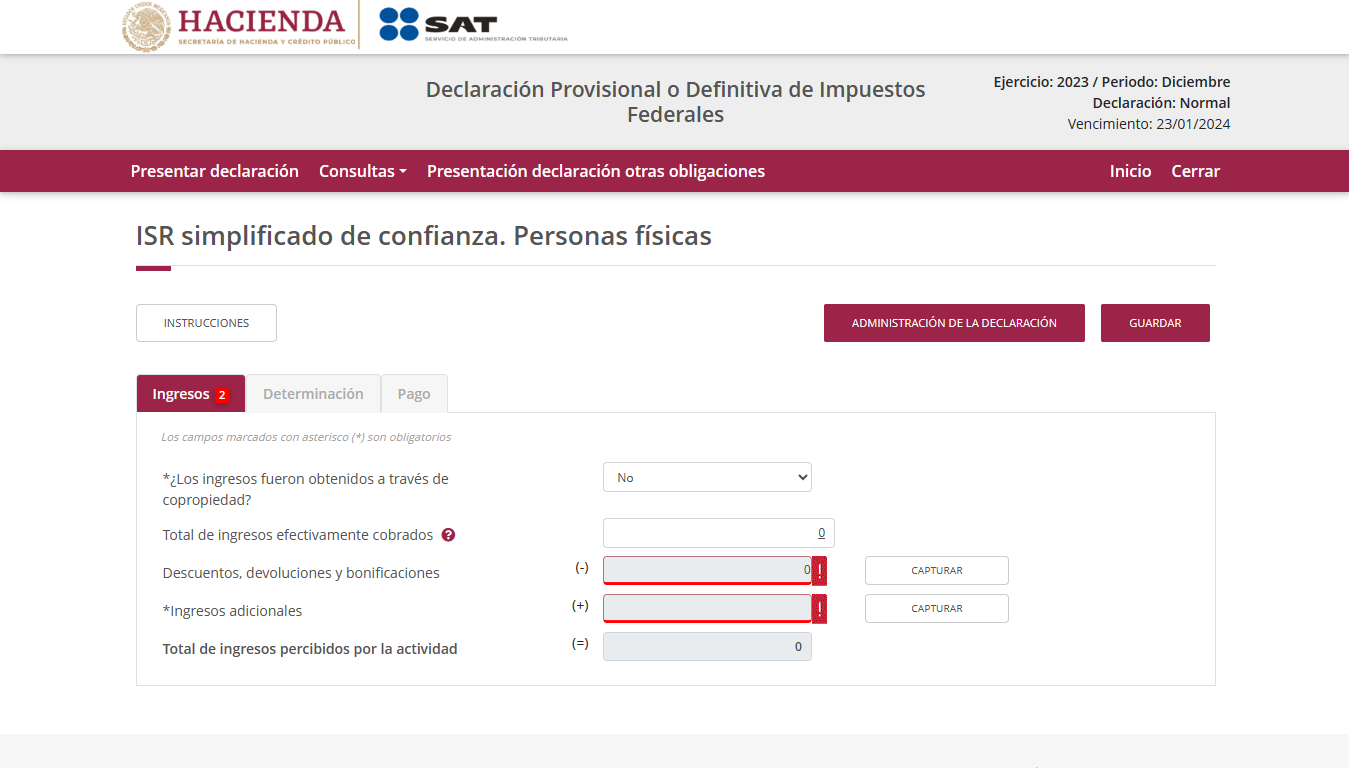
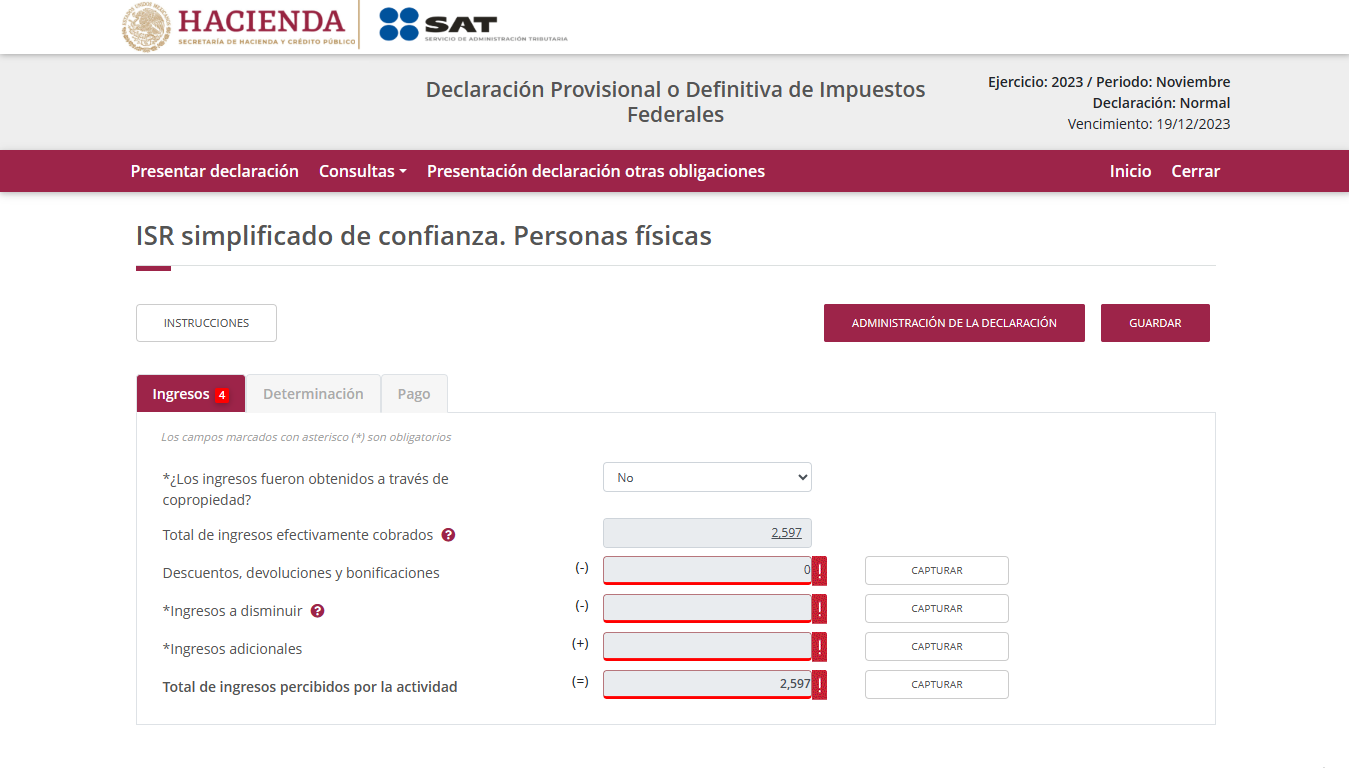
Ingresos disminuir y totales
Ingresos a disminuir y totales, actualización de capturas con datos.

diff --git a/SAT-Modular/static/js/declaracionesData.js b/SAT-Modular/static/js/declaracionesData.js
@@ -55,8 +55,8 @@ var inicio_declaraciones = `
         <input class="" type="button" onclick="ocultarinput('presentar_decla'), mostrarinput('periodicidad_decla'), imagen('img_declaracion', '/static/images/Declaraciones/presentar-declaracion.png'), actualizarTexto(9)" id="presentar_decla" value="Presentar declaración">
         <input class="" type="button" onclick="ocultarinput('periodicidad_decla'), mostrarinput('periodicidad_mensual'), imagen('img_declaracion', '/static/images/Declaraciones/presentar-declaracion-c1.png'), actualizarTexto(10)" id="periodicidad_decla" value="Periodicidad" style="display : none">
         <input class="" type="button" onclick="ocultarinput('periodicidad_mensual'), mostrarinput('periodo_decla'), imagen('img_declaracion', '/static/images/Declaraciones/presentar-declaracion-c2.png'), actualizarTexto(11)" id="periodicidad_mensual" value="Mensual" style="display : none">
-        <input class="" type="button" onclick="ocultarinput('periodo_decla'), mostrarinput('periodo_diciembre'), imagen('img_declaracion', '/static/images/Declaraciones/presentar-declaracion-c3.png')" id="periodo_decla" value="Periodo" style="display : none">
-        <input class="" type="button" onclick="ocultarinput('periodo_diciembre'), mostrarinput('tipo_declaracion'), imagen('img_declaracion', '/static/images/Declaraciones/presentar-declaracion-c4.png'), actualizarTexto(12)" id="periodo_diciembre" value="Diciembre" style="display : none">
+        <input class="" type="button" onclick="ocultarinput('periodo_decla'), mostrarinput('periodo_noviembre'), imagen('img_declaracion', '/static/images/Declaraciones/presentar-declaracion-c3.png')" id="periodo_decla" value="Periodo" style="display : none">
+        <input class="" type="button" onclick="ocultarinput('periodo_noviembre'), mostrarinput('tipo_declaracion'), imagen('img_declaracion', '/static/images/Declaraciones/presentar-declaracion-c4.png'), actualizarTexto(12)" id="periodo_noviembre" value="Noviembre" style="display : none">
         <input class="" type="button" onclick="ocultarinput('tipo_declaracion'), mostrarinput('tipo_normal'), imagen('img_declaracion', '/static/images/Declaraciones/presentar-declaracion-c5.png')" id="tipo_declaracion" value="Tipo declaración" style="display : none">
         <input class="" type="button" onclick="ocultarinput('tipo_normal'), mostrarinput('siguiente_decla'), imagen('img_declaracion', '/static/images/Declaraciones/presentar-declaracion-c6.png'), actualizarTexto(13)" id="tipo_normal" value="Normal" style="display : none">
         <input class="" type="button" onclick="siguiente(),actualizarTexto(14)" id="siguiente_decla" value="Siguiente" style="display : none">
@@ -102,14 +102,13 @@ var isr_pt2 = `
 <img class="" src="/static/images/Declaraciones/Declaraciones-isr-pt2-c1.png" alt="image" id="img_isr_simp_pt2">
     
     <div class="">
-        <input class="" type="button" onclick="ocultarinput('mostrar_ingresos'), mostrarinput('agregar_ingresos'),imagen('img_isr_simp_pt2', '/static/images/Declaraciones/Declaraciones-isr-pt2-c2.png'), actualizarTexto(23)" id="mostrar_ingresos" value="mostrar">
-        <input class="" type="button" onclick="ocultarinput('agregar_ingresos'), mostrarinput('seleccionar_ingresos'),imagen('img_isr_simp_pt2', '/static/images/Declaraciones/Declaraciones-isr-pt2-c3.png'), actualizarTexto(24)" id="agregar_ingresos" value="agregar" style="display : none">
-        <input class="" type="button" onclick="ocultarinput('seleccionar_ingresos'), mostrarinput('sin_ingreso_adicional'),imagen('img_isr_simp_pt2', '/static/images/Declaraciones/Declaraciones-isr-pt2-c4.png'), actualizarTexto(25)" id="seleccionar_ingresos" value="seleccionar" style="display : none">
-        <input class="" type="button" onclick="ocultarinput('sin_ingreso_adicional'), mostrarinput('importe_adicional'),imagen('img_isr_simp_pt2', '/static/images/Declaraciones/Declaraciones-isr-pt2-c5.png'), actualizarTexto(26)" id="sin_ingreso_adicional" value="sin ingreso adicional" style="display : none">
-        <input class="" type="text" onclick="actualizarTexto(27)" onchange="Validar_numero('importe_adicional','guardar_sin_ingreso_adicional','img_isr_simp_pt2','/static/images/Declaraciones/Declaraciones-isr-pt2-c6.png')" id="importe_adicional" style="display : none">
-        <input class="" type="button" onclick="ocultarinput('guardar_sin_ingreso_adicional'),mostrarinput('cerrar_ingreso'),imagen('img_isr_simp_pt2', '/static/images/Declaraciones/Declaraciones-isr-pt2-c7.png'), actualizarTexto(28)" id="guardar_sin_ingreso_adicional" value="Guardar" style="display : none">
-        <input class="" type="button" onclick="siguiente(),actualizarTexto()" id="cerrar_ingreso" value="cerrar" style="display : none"  > 
-
+        <input class="" type="button" onclick="ocultarinput('mostrar_ingresos_disminuir'), mostrarinput('agregar_ingresos_disminuir'),imagen('img_isr_simp_pt2', '/static/images/Declaraciones/Declaraciones-isr-pt2-c2.png'), actualizarTexto(23)" id="mostrar_ingresos_disminuir" value="mostrar">
+        <input class="" type="button" onclick="ocultarinput('agregar_ingresos_disminuir'), mostrarinput('seleccionar_ingresos_disminuir'),imagen('img_isr_simp_pt2', '/static/images/Declaraciones/Declaraciones-isr-pt2-c3.png'), actualizarTexto(24)" id="agregar_ingresos_disminuir" value="agregar" style="display : none">
+        <input class="" type="button" onclick="ocultarinput('seleccionar_ingresos_disminuir'), mostrarinput('sin_ingreso_disminuir'),imagen('img_isr_simp_pt2', '/static/images/Declaraciones/Declaraciones-isr-pt2-c4.png'), actualizarTexto(25)" id="seleccionar_ingresos_disminuir" value="seleccionar" style="display : none">
+        <input class="" type="button" onclick="ocultarinput('sin_ingreso_disminuir'), mostrarinput('importe_disminuir'),imagen('img_isr_simp_pt2', '/static/images/Declaraciones/Declaraciones-isr-pt2-c5.png'), actualizarTexto(26)" id="sin_ingreso_disminuir" value="sin ingreso a disminuir" style="display : none">
+        <input class="" type="text" onclick="actualizarTexto(27)" onchange="Validar_numero('importe_disminuir','guardar_sin_ingreso_disminuir','img_isr_simp_pt2','/static/images/Declaraciones/Declaraciones-isr-pt2-c6.png')" id="importe_disminuir" style="display : none">
+        <input class="" type="button" onclick="ocultarinput('guardar_sin_ingreso_disminuir'),mostrarinput('cerrar_ingreso_disminuir'),imagen('img_isr_simp_pt2', '/static/images/Declaraciones/Declaraciones-isr-pt2-c7.png'), actualizarTexto(28)" id="guardar_sin_ingreso_disminuir" value="Guardar" style="display : none">
+        <input class="" type="button" onclick="siguiente(),actualizarTexto(29)" id="cerrar_ingreso_disminuir" value="cerrar" style="display : none"  > 
     </div>
 </div>
 <input class="atras" type="button" onclick="anterior(), actualizarTexto(15)">
@@ -118,13 +117,37 @@ var isr_pt2 = `
 // Posición 8
 var isr_pt3 = `
 <div class="tuto-window">
-<img class="" src="/static/images/Declaraciones/Declaraciones-isr-pt3-c1.png" alt="image" id="img_isr_simp_pt2">
+    <img class="" src="/static/images/Declaraciones/Declaraciones-isr-pt3-c1.png" alt="image" id="img_isr_simp_pt3">
     
     <div class="">
-    
+        <input class="" type="button" onclick="ocultarinput('mostrar_ingresos_adicionales'), mostrarinput('agregar_ingresos_adicionales'),imagen('img_isr_simp_pt3', '/static/images/Declaraciones/Declaraciones-isr-pt3-c2.png'), actualizarTexto(30)" id="mostrar_ingresos_adicionales" value="mostrar">
+        <input class="" type="button" onclick="ocultarinput('agregar_ingresos_adicionales'), mostrarinput('seleccionar_ingresos_adicionales'),imagen('img_isr_simp_pt3', '/static/images/Declaraciones/Declaraciones-isr-pt3-c3.png'), actualizarTexto(24)" id="agregar_ingresos_adicionales" value="agregar" style="display : none">
+        <input class="" type="button" onclick="ocultarinput('seleccionar_ingresos_adicionales'), mostrarinput('sin_ingreso_adicional'),imagen('img_isr_simp_pt3', '/static/images/Declaraciones/Declaraciones-isr-pt3-c4.png'), actualizarTexto(31)" id="seleccionar_ingresos_adicionales" value="seleccionar" style="display : none">
+        <input class="" type="button" onclick="ocultarinput('sin_ingreso_adicional'), mostrarinput('importe_adicional'),imagen('img_isr_simp_pt3', '/static/images/Declaraciones/Declaraciones-isr-pt3-c5.png'), actualizarTexto(26)" id="sin_ingreso_adicional" value="sin ingreso adicional" style="display : none">
+        <input class="" type="text" onclick="actualizarTexto(32)" onchange="Validar_numero('importe_adicional','guardar_sin_ingreso_adicional','img_isr_simp_pt3','/static/images/Declaraciones/Declaraciones-isr-pt3-c6.png')" id="importe_adicional" style="display : none">
+        <input class="" type="button" onclick="ocultarinput('guardar_sin_ingreso_adicional'),mostrarinput('cerrar_ingreso_adicional'),imagen('img_isr_simp_pt3', '/static/images/Declaraciones/Declaraciones-isr-pt3-c7.png'), actualizarTexto(28)" id="guardar_sin_ingreso_adicional" value="Guardar" style="display : none">
+        <input class="" type="button" onclick="siguiente(),actualizarTexto(33)" id="cerrar_ingreso_adicional" value="cerrar" style="display : none"  >  
     </div>
 </div>
 <input class="atras" type="button" onclick="anterior(), actualizarTexto(22)">
+`;
+
+// Posición 9
+var isr_pt4 = `
+<div class="tuto-window">
+    <img class="" src="/static/images/Declaraciones/Declaraciones-isr-pt4-c1.png" alt="image" id="img_isr_simp_pt4">
+    
+    <div class="">
+        <input class="" type="button" onclick="ocultarinput('mostrar_ingresos_totales'), mostrarinput('agregar_ingresos_totales'),imagen('img_isr_simp_pt4', '/static/images/Declaraciones/Declaraciones-isr-pt4-c2.png'), actualizarTexto(34)" id="mostrar_ingresos_totales" value="mostrar">
+        <input class="" type="button" onclick="ocultarinput('agregar_ingresos_totales'), mostrarinput('seleccionar_ingresos_totales'),imagen('img_isr_simp_pt4', '/static/images/Declaraciones/Declaraciones-isr-pt4-c3.png'), actualizarTexto(24)" id="agregar_ingresos_totales" value="agregar" style="display : none">
+        <input class="" type="button" onclick="ocultarinput('seleccionar_ingresos_totales'), mostrarinput('actividad_empresarial'),imagen('img_isr_simp_pt4', '/static/images/Declaraciones/Declaraciones-isr-pt4-c4.png'), actualizarTexto(35)" id="seleccionar_ingresos_totales" value="seleccionar" style="display : none">
+        <input class="" type="button" onclick="ocultarinput('actividad_empresarial'), mostrarinput('total_ingresos'),imagen('img_isr_simp_pt4', '/static/images/Declaraciones/Declaraciones-isr-pt4-c5.png'), actualizarTexto(26)" id="actividad_empresarial" value="Actividad Empresarial" style="display : none">
+        <input class="" type="text" onclick="actualizarTexto(36)" onchange="Validar_numero('total_ingresos','guardar_ingreso_total','img_isr_simp_pt4','/static/images/Declaraciones/Declaraciones-isr-pt4-c6.png')" id="total_ingresos" style="display : none">
+        <input class="" type="button" onclick="ocultarinput('guardar_ingreso_total'),mostrarinput('cerrar_ingreso_total'),imagen('img_isr_simp_pt4', '/static/images/Declaraciones/Declaraciones-isr-pt4-c7.png'), actualizarTexto(28)" id="guardar_ingreso_total" value="Guardar" style="display : none">
+        <input class="" type="button" onclick="siguiente(), actualizarTexto()" id="cerrar_ingreso_total" value="cerrar" style="display : none"  >   
+    </div>
+</div>
+<input class="atras" type="button" onclick="anterior(), actualizarTexto(29)">
 `;
 
 // ----------------------------------------------- Tutorial text -----------------------------------------------
@@ -184,7 +207,7 @@ En el apartado de periodicidad selecciona la opción de "Mensual" que es la que 
 
 // Posición 11
 var configuracion_decla_periodo = `
-Ahora el siguiente paso es seleccionar el Periodo, haz click en el y en el mes de Diciembre.
+Ahora el siguiente paso es seleccionar el Periodo, haz click en el y selecciona el mes de Noviembre que corresponderá a este tutorial.
 `;
 
 // Posición 12
@@ -219,12 +242,12 @@ Ahora veremos el apartado de ingresos efectivamente cobrados.
 
 // Posición 18
 var facturas_vigentes = `
-En este apartado se te mostraran las facturas vigentes al mes de la factura, en este caso en diciembre tenemos 0 facturas vigentes, de igual forma nuestro total es 0. Presiona cerrar para regresar a la parte anterior.
+En este apartado se te mostraran las facturas vigentes al mes de la factura, en este caso en el mes seleccionado tenemos 2,597 en facturas vigentes, de igual forma nuestro total es de 2,597. Presiona cerrar para regresar a la parte anterior.
 `;
 
 // Posición 19
 var desc_dev_bonif= `
-Bien, ahora iremos a la parte de Descuentos, devoluciones y bonificaciones, le daremos click para continuar.
+Bien, ahora iremos a la parte de Descuentos, devoluciones y bonificaciones, le daremos click para CAPTURAR.
 `;
 
 // Posición 20
@@ -238,46 +261,89 @@ Aqui pondremos 0 para indicar que no tenemos ningun descuento ni bonificación.
 `;
 
 // Posición 22
-var ingreso_adicional_1= `
-Ahora vamos a la parte de ingresos adicionales, este es el penultimo apartado antes de terminar la seccion de ingresos.
+var disminuir_ingresos = `
+El siguiente paso es configurar los ingresos a disminuir, selecciona la opción de CAPTURAR.
 `;
 
-// Posición 23
-var ingreso_adicional_2= `
-Aquí indicaremos cualquier tipo de actividad que no se haya registrado su CFDI correspondiente o no tenga un prellenado. Daremos click en agregar.
+// Posicón 23
+var agregar_disminuir_ingreso = `
+Se nos marca una advertencia debido a que por lo menos debe de haber un registro, por lo que para agregarlo haz click en el botón.
 `;
 
 // Posición 24
-var ingreso_adicional_3= `
+var seleccionar_concepto= `
 En el apartado de Concepto seleccionaremos uno, presiona el apartado de seleccionar.
 `;
 
 // Posición 25
-var ingreso_adicional_4= `
-Para este ejemplo no contaremos con ingresos adicionales por lo que le daremos en el apartado de " Sin ingresos adicionales ".
+var concepto_disminuir = `
+El concepto que vas a seleccionar es el de "Sin ingresos a disminuir" ya que no reportaremos algunos, pero en caso de ser necesario deberas seleccionar la opción correspondiente.
 `;
 
 // Posición 26
-var ingreso_adicional_5= `
+var seleccionar_importe = `
 Nos iremos a la seccion donde dice importe.
 `;
 
 // Posición 27
-var ingreso_adicional_6= `
+var importe_disminuir = `
+Como anteriormente seleccionaste la opción de sin ingresos a disminuir, el importe debe de ser 0.
+`;
+
+// Posición 28
+var cerrar_apartado = `
+Con los datos ya ingresados ahora cerremos este apartado.
+`;
+
+// Posición 29
+var ingreso_adicional_1= `
+Ahora vamos a la parte de ingresos adicionales, este es el penultimo apartado antes de terminar la seccion de ingresos.
+`;
+
+// Posición 30
+var ingreso_adicional_2= `
+Aquí indicaremos cualquier tipo de actividad que no se haya registrado su CFDI correspondiente o no tenga un prellenado. Daremos click en agregar.
+`;
+
+// Posición 31
+var ingreso_adicional_3= `
+Para este ejemplo no contaremos con ingresos adicionales por lo que le daremos en el apartado de " Sin ingresos adicionales ".
+`;
+
+// Posición 32
+var ingreso_adicional_4= `
 Pondremos un 0 dando a entender que claramente no tuvimos ingresos adicionales y seguiremos con los siguientes pasos.
 `;
 
-// Posición 27
-var ingreso_adicional_7= `
-Ahora cerremos este apartado.
+// Posición 33
+var ingresos_totales = `
+La última sección del apartado de ingresos es la del total de ingresos efectivamente cobrados, por lo que debes de hacer click en CAPTURAR
+`;
+
+// Posición 34
+var ingresos_totales_2 = `
+Al igual que en las secciones pasadas puedes ver la advertencia en rojo ya que no hay ningún monto agregado, selecciona la opción de AGREGAR.
+`;
+
+// Posición 35
+var ingresos_totales_3 = `
+Los conceptos siempre seran dependiendo la declaración, para este ejemplo utilizaremos el de "Actividad empresarial".
+`;
+
+// Posición 36
+var ingresos_totales_4 = `
+El importe será el total de los ingresos por lo que debes de ingresar: 2597.
 `;
 
 // HTML de tutorial
 var HTML_text_declaraciones = [SAT_inicio, declaraciones, presenta_declaracion, login_declaraciones, 
-                                inicio_declaraciones,declaracion_isr,isr_pt1,isr_pt2,isr_pt3]
+                                inicio_declaraciones,declaracion_isr,
+                                isr_pt1,isr_pt2,isr_pt3, isr_pt4]
 
 // Texto de guía tutorial
 var tutorial_text_declaraciones = [inicio, RSC, opcion_RSC, iniciar_declaracion, login_tutorial, RFC_login, contrasena_login, captcha_login,
                                 presentar_declaracion, configuracion_decla, configuracion_decla_periodicidad, configuracion_decla_periodo, configuracion_decla_tipo, configuracion_decla_final,decla_isr_inicio,
-                                copropiedad,seleccion_input_copropiedad,ingresos_efectivamente_cobrados_mostrar,facturas_vigentes,desc_dev_bonif,desc_dev_bonif_2,txt_desc_dev_bonif,ingreso_adicional_1,
-                                ingreso_adicional_2,ingreso_adicional_3,ingreso_adicional_4,ingreso_adicional_5,ingreso_adicional_6,ingreso_adicional_7]
+                                copropiedad,seleccion_input_copropiedad,ingresos_efectivamente_cobrados_mostrar,facturas_vigentes,desc_dev_bonif,desc_dev_bonif_2,txt_desc_dev_bonif,
+                                disminuir_ingresos, agregar_disminuir_ingreso, seleccionar_concepto, concepto_disminuir, seleccionar_importe, importe_disminuir, cerrar_apartado,
+                                ingreso_adicional_1,ingreso_adicional_2,ingreso_adicional_3, ingreso_adicional_4,
+                                ingresos_totales, ingresos_totales_2, ingresos_totales_3, ingresos_totales_4]

diff --git a/SAT-Modular/static/js/tutorialDeclaraciones.js b/SAT-Modular/static/js/tutorialDeclaraciones.js
@@ -73,15 +73,29 @@ async function Validar_numero(id,siguiente,idimg,img){
         document.getElementById("tutorialText").innerHTML = "Perfecto, presiona cerrar para ir al siguiente apartado"
         imagen(idimg, img)
         mostrarinput(siguiente)
-
-    }else if (inputActual.value == "0" && id == "importe_adicional" ){
+    }
+    else if (inputActual.value == "0" && id == "importe_disminuir" ){
 
         inputActual.setAttribute("readonly", " ")
         document.getElementById("tutorialText").innerHTML = "Perfecto, presiona guardar para ir al siguiente apartado"
         imagen(idimg, img)
         mostrarinput(siguiente)
+    }
+    else if (inputActual.value == "0" && id == "importe_adicional" ){
 
-    }else{
+        inputActual.setAttribute("readonly", " ")
+        document.getElementById("tutorialText").innerHTML = "Perfecto, presiona guardar para ir al siguiente apartado"
+        imagen(idimg, img)
+        mostrarinput(siguiente)
+    }
+    else if (inputActual.value == "2597" && id == "total_ingresos" ){
+
+        inputActual.setAttribute("readonly", " ")
+        document.getElementById("tutorialText").innerHTML = "Perfecto, presiona guardar para ir al siguiente apartado"
+        imagen(idimg, img)
+        mostrarinput(siguiente)
+    }
+    else{
         document.getElementById("tutorialText").innerHTML = "Parece que cometiste un error, lo bueno es que estas aprendiendo ingresalo nuevamente"
     }
 }

diff --git a/SAT-Modular/templates/Declaraciones/layoutDeclaraciones.html b/SAT-Modular/templates/Declaraciones/layoutDeclaraciones.html
@@ -63,9 +63,9 @@
         </div>
     </div>
 
-    <script>
+    <!-- <script>
         $SCRIPT_ROOT = {{ request.script_root | tojson }};
-    </script>
+    </script> -->
     <script type="text/javascript" src="{{ url_for('static', filename='js/app.js') }}"></script>
     <script type="text/javascript" src="{{ url_for('static', filename='js/tutorialDeclaraciones.js') }}"></script>
     <script type="text/javascript" src="{{ url_for('static', filename='js/declaracionesData.js') }}"></script>

diff --git a/SAT-Modular/templates/CFDI/layoutCFDI.html b/SAT-Modular/templates/CFDI/layoutCFDI.html
@@ -63,9 +63,9 @@
         </div>
     </div>
 
-    <script>
+    <!-- <script>
         $SCRIPT_ROOT = {{ request.script_root | tojson }};
-    </script>
+    </script> -->
     <script type="text/javascript" src="{{ url_for('static', filename='js/app.js') }}"></script>
     <script type="text/javascript" src="{{ url_for('static', filename='js/tutorialCFDI.js') }}"></script>
 

diff --git a/SAT-Modular/templates/layout.html b/SAT-Modular/templates/layout.html
@@ -82,9 +82,9 @@
         </div>
     </footer>
 
-    <script>
+    <!-- <script>
         $SCRIPT_ROOT = {{ request.script_root|tojson }};
-    </script>
+    </script> -->
     <script type="text/javascript" src="{{ url_for('static', filename='js/app.js') }}"></script>
 
 </body>
